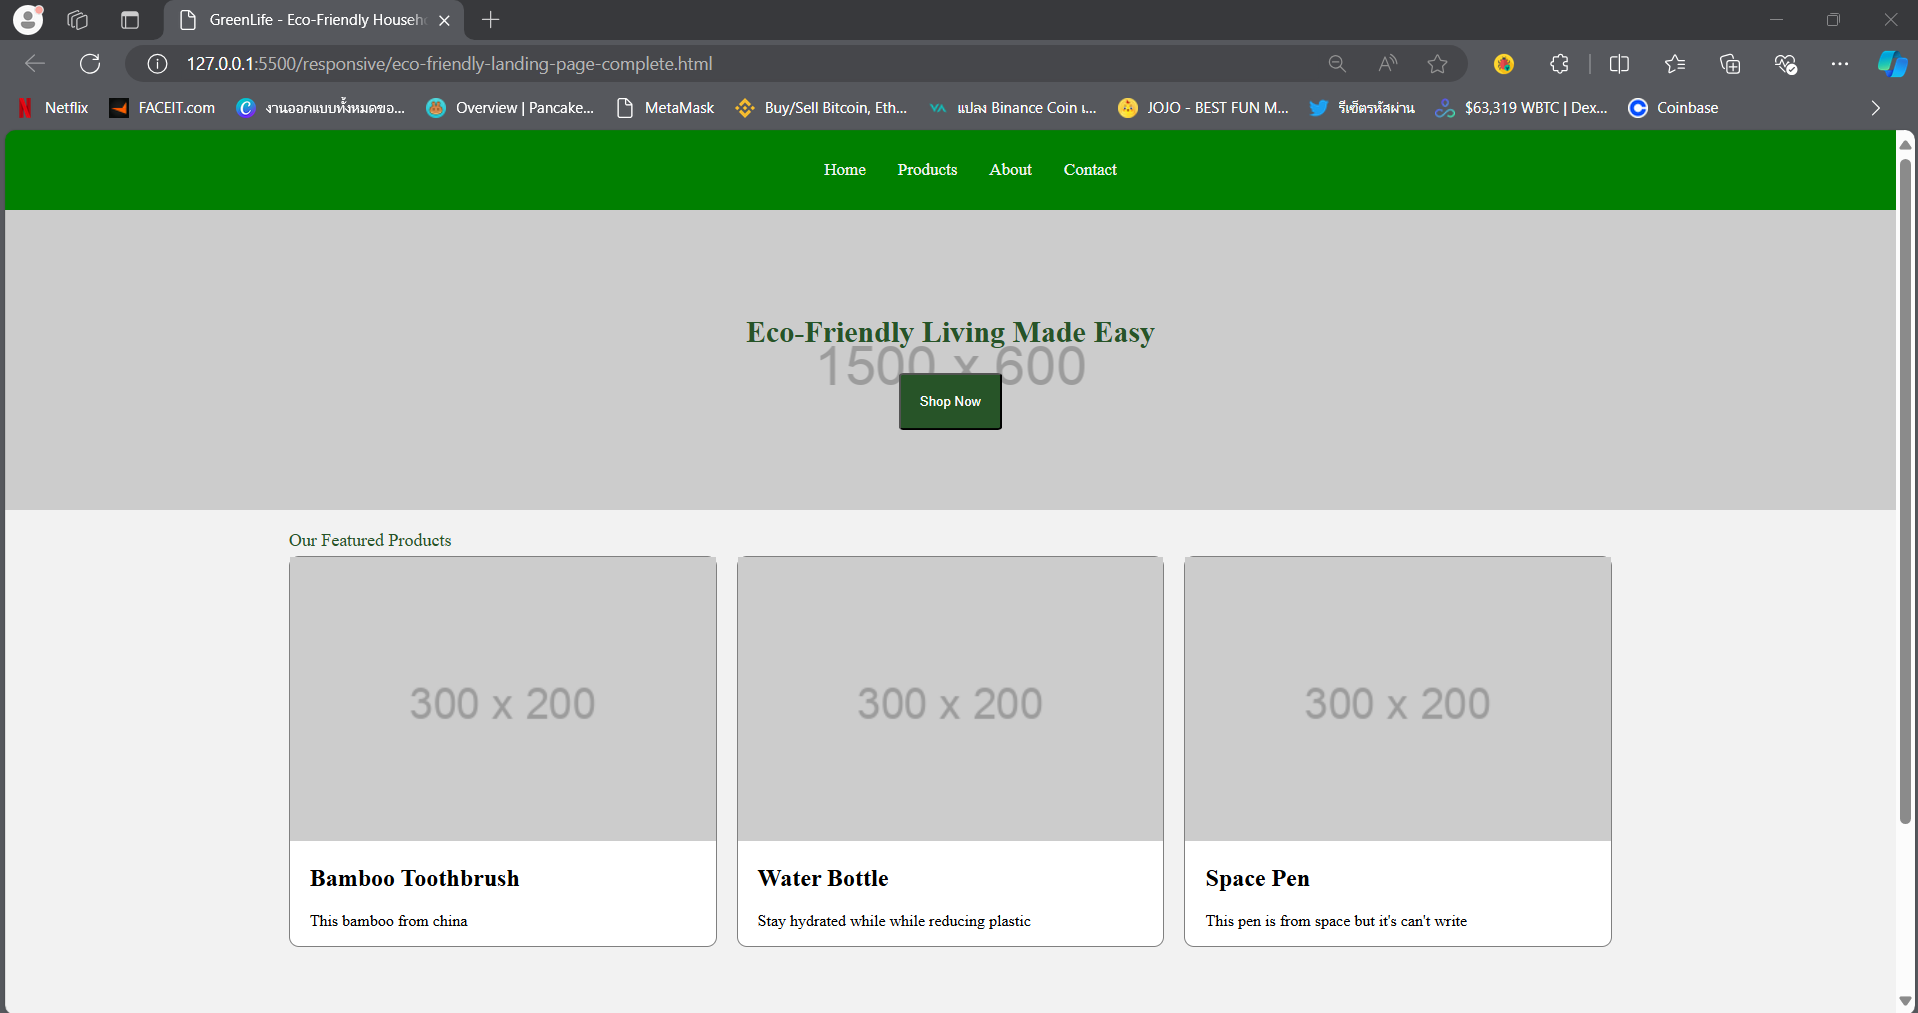
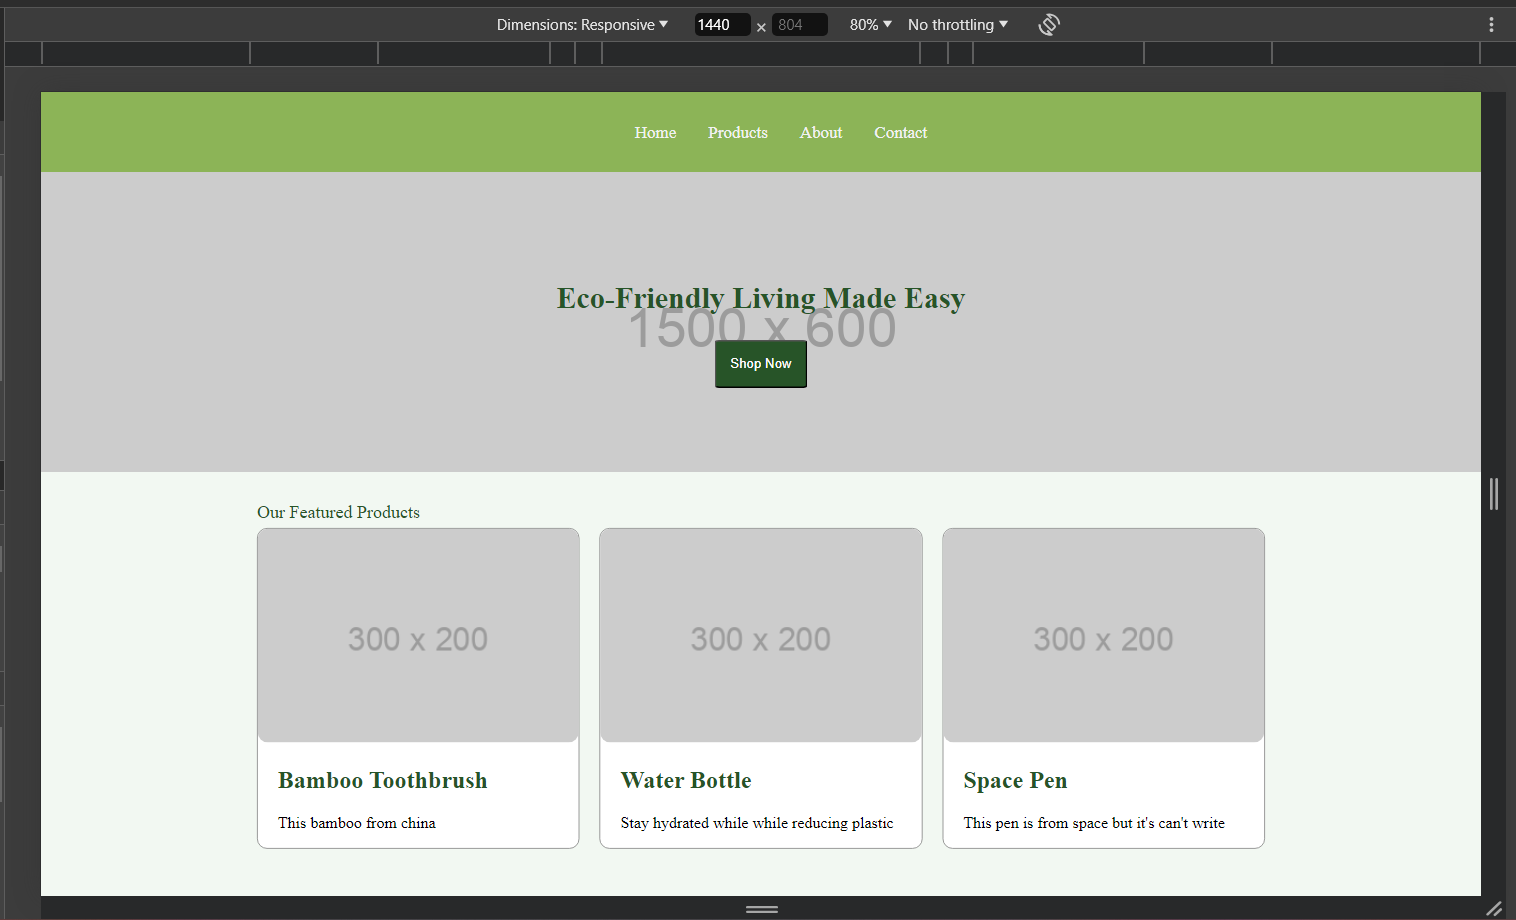
update done responsive

diff --git a/responsive/article-page-solution.css b/responsive/article-page-solution.css
@@ -1,66 +1,67 @@
-.navBar {
+/* nav bar */
+nav {
     background-color: #333;
     overflow: hidden;
-
+}
+nav a {
+    color: #f2f2f2;
+    text-align: center;
+    padding: 14px 16px;
+    text-decoration: none;
+    font-size: 17px;
+    float: left;
+    display: flex;
+    border-radius: 5%;
+}
+nav a:hover {
+    background-color: whitesmoke;
+    color: black;
+}
+nav a.active {
+    background-color: #333;
+    color: white;
+}
+nav h1{
+    color: white;
+    font-size: 45px;
+    margin-bottom: 15px;
 }
 
+/* body */
 body{
     margin: 0;
     background-color: #f2f2f2;
 }
 
-.navBar a {
-color: #f2f2f2;
-text-align: center;
-padding: 14px 16px;
-text-decoration: none;
-font-size: 17px;
-
-float: left;
-display: flex;
-}
-
-.navBar a:hover {
-background-color: #7bddbb;
-color: black;
-}
-
-.navBar a.active {
-background-color: #04AA6D;
-color: white;
-}
-
-.navBar h1{
-    color: white;
-    font-size: 45px;
-}
-
+/* main */
 main{
     display: flex;
     flex-wrap: wrap;
     margin: 15px;
-    gap: 10px;
-
-
+    gap: 15px;
 }
+
+/* article */
 article{
     flex: 2 1 60%;
     box-shadow: 0px 0px 10px gray;
     padding: 10px;
 }
-
 article h2{
     font-size: 35px;
+    margin-bottom: 10px;
 }
 
-
+/* aside */
 aside{
     margin-left: 20px;
-    flex: 1 1 30%;
-    background-color: rgb(213, 213, 213);
-    padding: 1em;
+    flex: 1 0 30%;
+    background-color: rgb(202, 199, 199);
+    box-shadow: 0px 0px 10px rgb(87, 86, 86);
+    padding: 2%;
 }
 
+/* footer */
 footer {
     position: fixed;
     left: 0;
@@ -71,18 +72,20 @@ footer {
     text-align: center;
 }
 
-@media (width < 768px)  {
-    .navBar a{
+/* media */
+@media (width <= 768px)  {
+    nav a{
         float: none;
         flex-direction: row;
     }
     main {
-        display: flex;
         flex-direction: column;
     }
     aside{
-        padding: 0em;
+        display: inline;
+        inline-size: 300px;
+        padding: 2%;
+        margin-bottom: 10%;
     }
 
-    
 }

diff --git a/responsive/eco-friendly-landing-page-complete.css b/responsive/eco-friendly-landing-page-complete.css
@@ -2,56 +2,61 @@
 
 body{
     margin: 0;
-    background-color: #f2f2f2;
+    background-color: rgb(242, 248, 242);
 }
 header{
     justify-content: center;
 }
-.navBar {
-    background-color: green;
+
+/* nav bar */
+nav {
+    background-color: rgb(140, 180, 87);
     overflow:auto;
-    
 }
 ul{
     display: flex;
     justify-content: center;
 }
-.navBar a {
-color: #f2f2f2;
-text-align: center;
-padding: 14px 16px;
-text-decoration: none;
-font-size: 17px;
-/* float: left; */
-display: flex;
+nav a {
+    color: #f2f2f2;
+    text-align: center;
+    padding: 14px 16px;
+    text-decoration: none;
+    font-size: 17px;
+    display: flex;
 }
-.navBar a:hover {
-background-color: #7bddbb;
-color: black;
+nav a:hover {
+    background-color: #7bddbb;
+    color: black;
+    }
+nav a.active {
+    background-color: #04AA6D;
+    color: white;
 }
-.navBar a.active {
-background-color: #04AA6D;
-color: white;
-}
-.navBar h1{
+nav h1{
     color: white;
     font-size: 45px;
 }
 
+/* product */
 .product{
     text-align: left;
     border:gray solid 1px;
     background-color:white;
     border-radius: 10px;
-
 }
 .product img {
     width: 100%;
+    border-radius: 10px;
 }
 .product h2,p{
     padding-left: 20px;
 }
+.product h2{
+    color: rgb(39, 84, 40);
+}
 
+/* hero */
 #hero{
     align-content: center;
     text-align: center;
@@ -71,7 +76,7 @@ color: white;
     padding: 1%;
 }
 
-
+/* featured-products */
 #featured-products{
 
     margin: 15%;
@@ -81,12 +86,15 @@ color: white;
     grid-template-columns: 1fr 1fr 1fr;
 }
 
+/* ofp (Our Featured Products) */
 .ofp{
     color: rgb(39, 84, 40);
     font-size: large;
     margin:  20px 0 0 15%;
+    margin-top: 30px;
 }
 
+/* media */
 @media screen and (max-width: 1023px)  {
     .navBar a{
         flex-direction: row;

diff --git a/responsive/eco-friendly-landing-page-complete.html b/responsive/eco-friendly-landing-page-complete.html
@@ -9,7 +9,7 @@
   </head>
   <body>
     <header>
-      <nav class="navBar">
+      <nav>
         <ul>
           <a href="#home">Home</a>
           <a href="#products">Products</a>
@@ -27,25 +27,23 @@
       </section>
       <div class="ofp">Our Featured Products</div>
       <section id="featured-products">
-        <!-- Add featured products here -->
-        <div class="product">
-          <img src="https://via.placeholder.com/300x200" alt="Product 1" />
-          <h2>Bamboo Toothbrush</h2>
-          <p>This bamboo from china</p>
-          </div>
-          <div class="product">
+            <div class="product">
+            <img src="https://via.placeholder.com/300x200" alt="Product 1" />
+            <h2>Bamboo Toothbrush</h2>
+            <p>This bamboo from china</p>
+            </div>
+            <div class="product">
             <img src="https://via.placeholder.com/300x200" alt="Product 1" />
             <h2>Water Bottle</h2>
             <p>Stay hydrated while while reducing plastic</p>
             </div>
             <div class="product">
-              <img src="https://via.placeholder.com/300x200" alt="Product 1" />
-              <h2>Space Pen</h2>
-              <p>This pen is from space but it's can't write </p>
-              </div>
+            <img src="https://via.placeholder.com/300x200" alt="Product 1" />
+            <h2>Space Pen</h2>
+            <p>This pen is from space but it's can't write </p>
+          </div>
       </section>
       </div>
-
     </main>
   </body>
 </html>

diff --git a/responsive/article-page-solution.html b/responsive/article-page-solution.html
@@ -8,7 +8,7 @@
     </head>
   <body>
         <header>
-        <nav class="navBar">
+        <nav>
             <ul>
             <h1>Our Products</h1>
             <a href="#home">Home</a>
